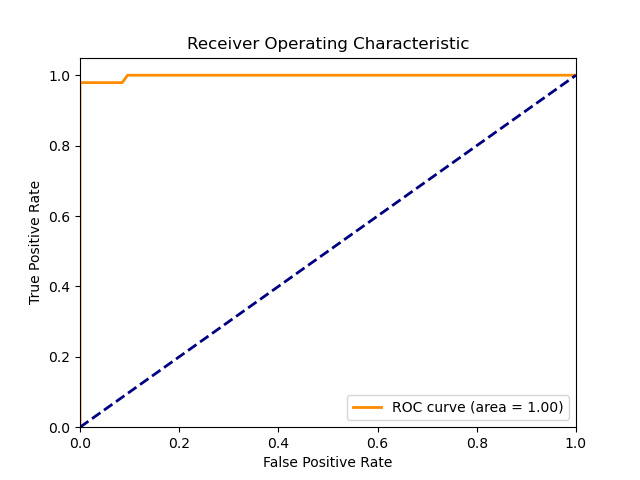
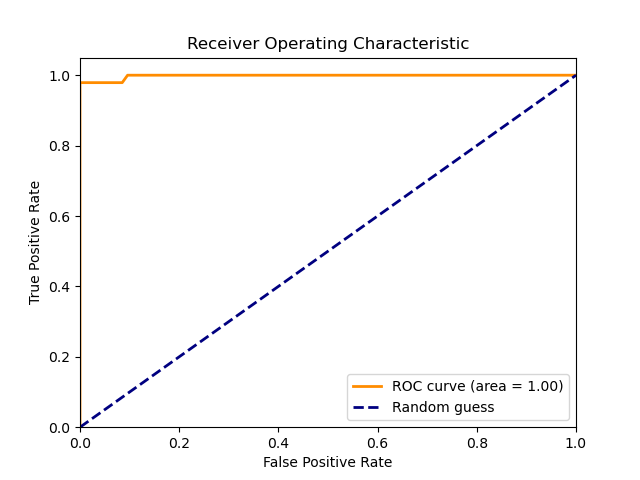
Update feature importance plots in attrition_report.md and visualization.py

Changed region(s): [[0.5312, 0.7812, 0.9062, 0.875], [0.5625, 0.8438, 0.5938, 0.875]]

diff --git a/src/models/visualization.py b/src/models/visualization.py
@@ -30,7 +30,7 @@ def plot_roc_curve(model, X_test, y_test, path=None):
     # plot the ROC curve
     plt.figure()
     plt.plot(fpr, tpr, color='darkorange', lw=2, label='ROC curve (area = %0.2f)' % roc_auc)
-    plt.plot([0, 1], [0, 1], color='navy', lw=2, linestyle='--')
+    plt.plot([0, 1], [0, 1], color='navy', lw=2, linestyle='--', label='Random guess')
     plt.xlim([0.0, 1.0])
     plt.ylim([0.0, 1.05])
     plt.xlabel('False Positive Rate')

diff --git a/reports/attrition_report.md b/reports/attrition_report.md
@@ -59,7 +59,13 @@ These figures show that the random forest model slightly outperforms the decisio
 
 ### Feature Importance
 
-Both models provide insights into the key factors driving employee attrition. The top features contributing to attrition include:
+Both models provide insights into the key factors driving employee attrition. Following figure shows the feature importance plots for the decision tree and random forest models:
 
+<p float="left">
+  <img src="figures/tree_feature_importance.png" width='40%' />
+  <img src="figures/forest_feature_importance.png" width='40%' />
+</p>
 
+Eventhoug the feature importance plots differ slightly between the two models, some common factors emerge as significant contributors to attrition, such as monthly income, job satisfaction, and years at the company. These insights can guide HR policies and interventions to address attrition proactively.
 
+Both models 
